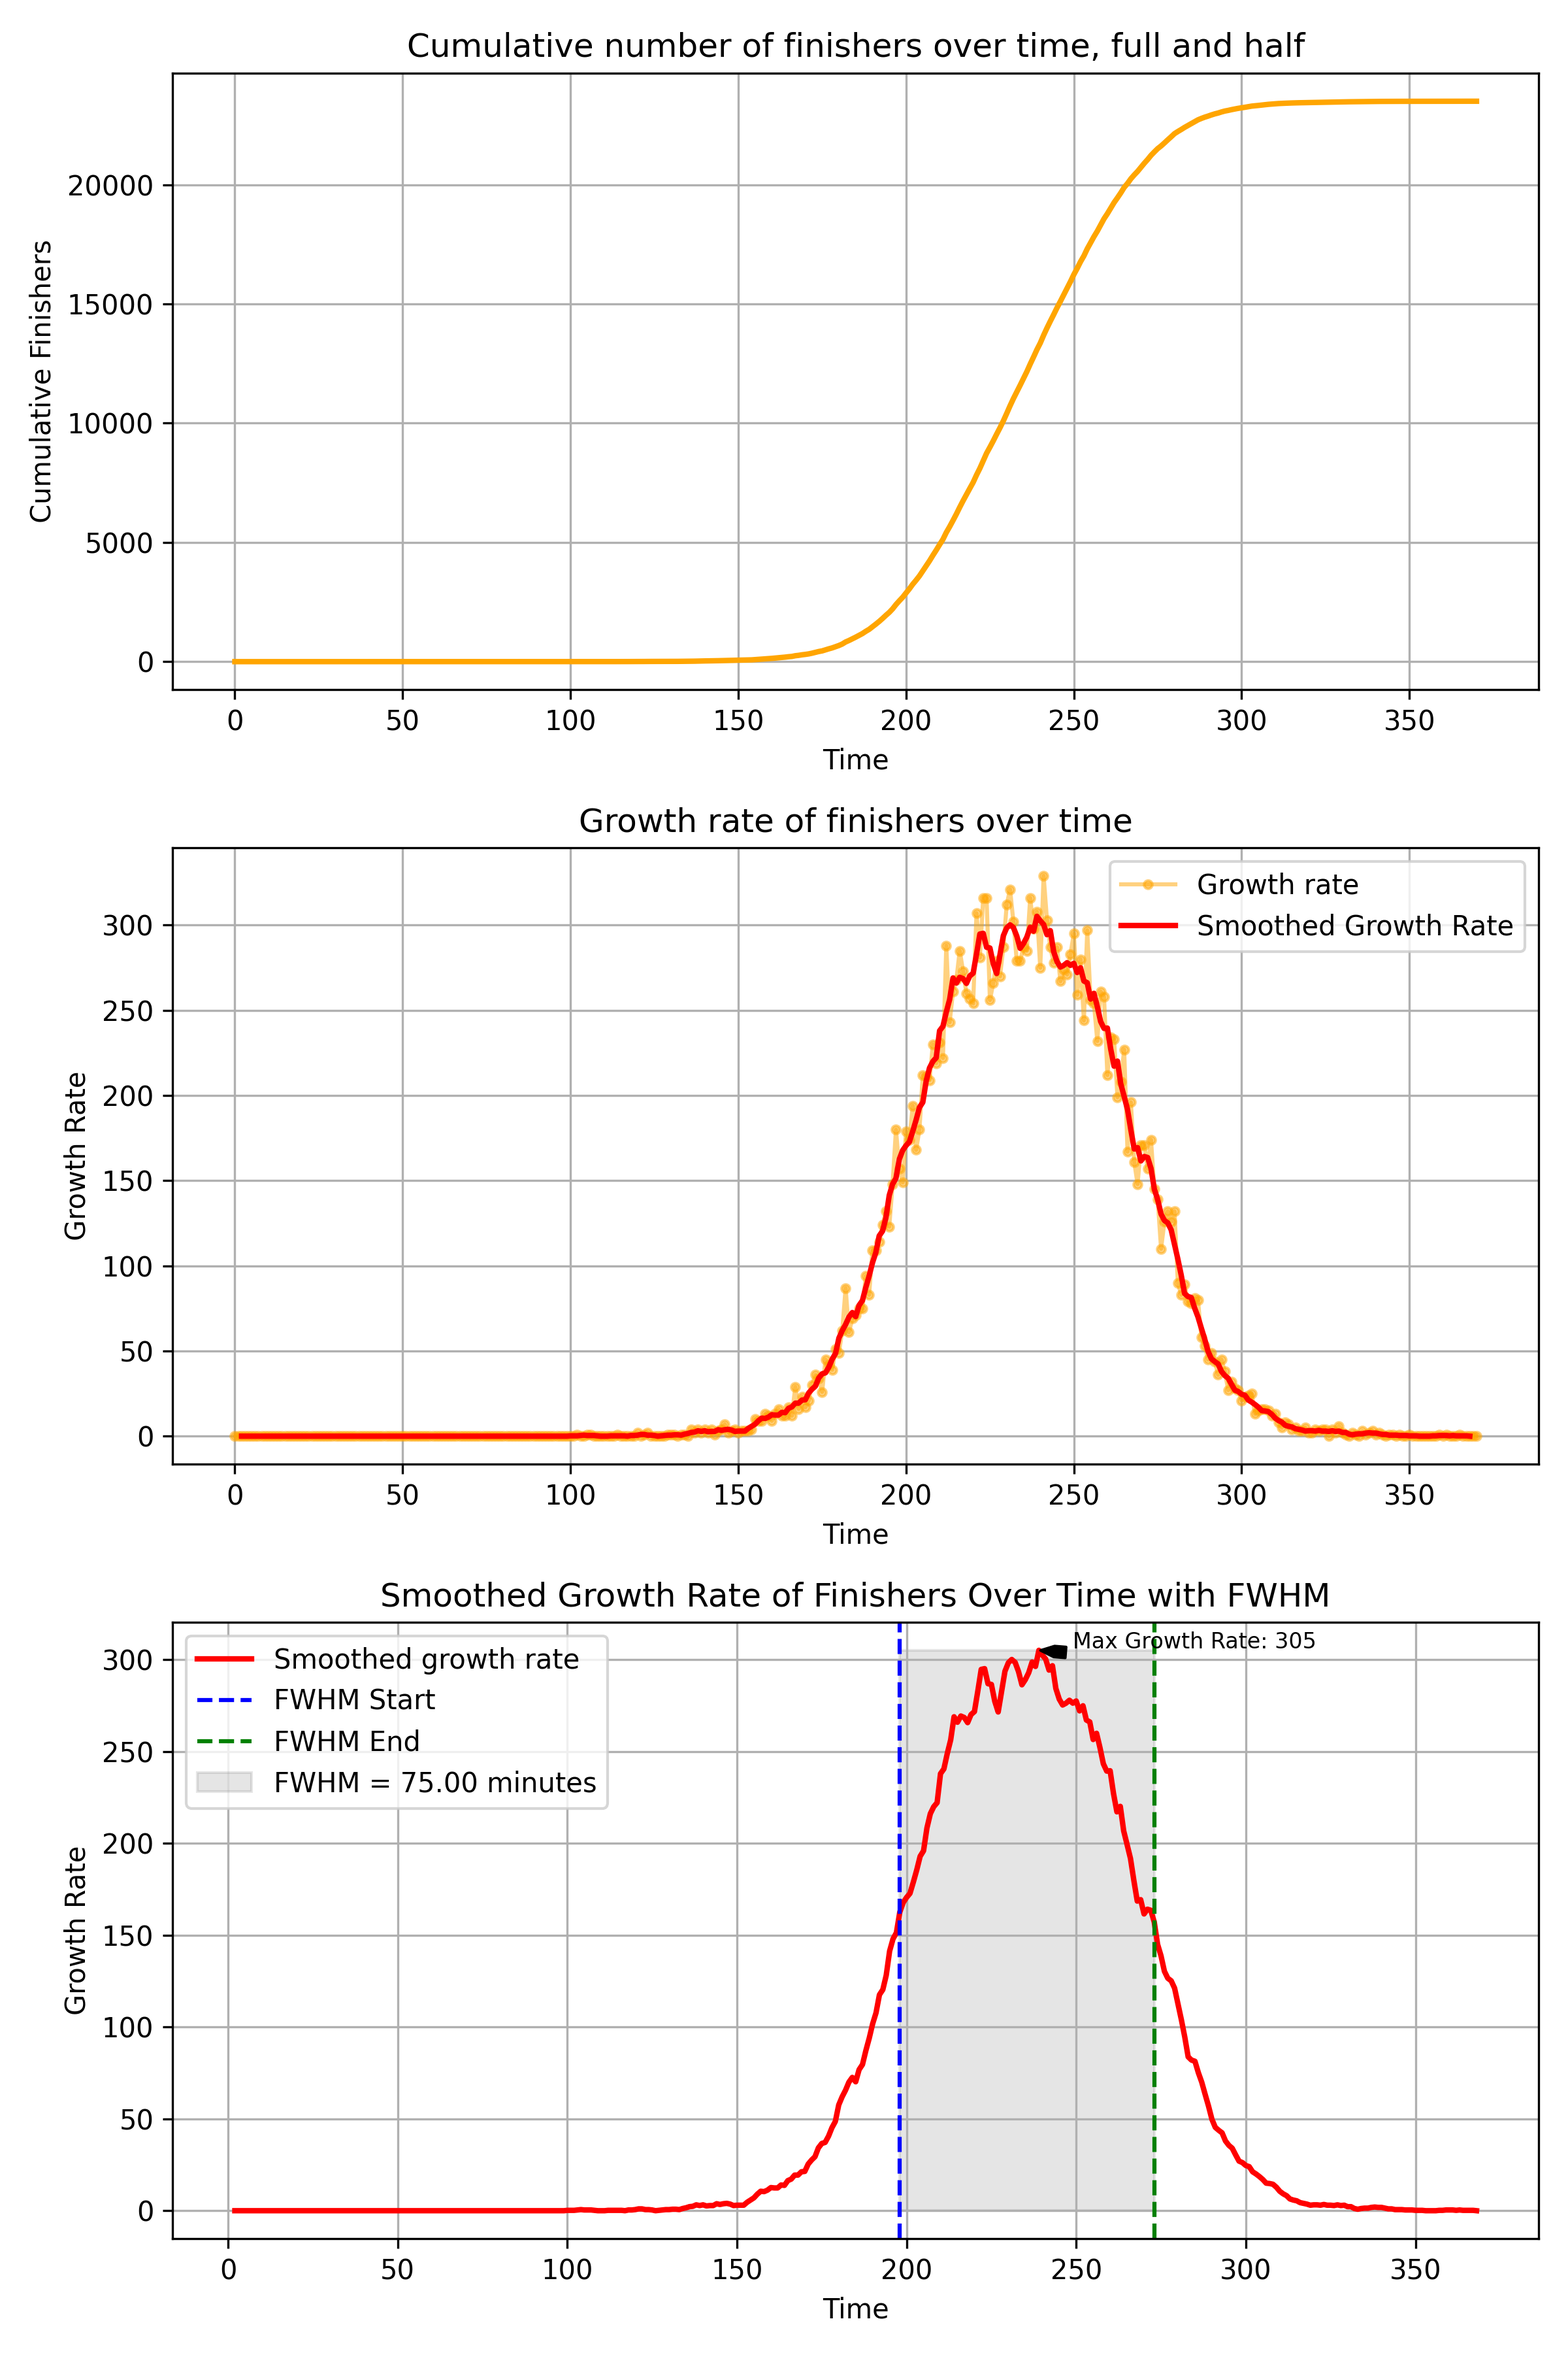
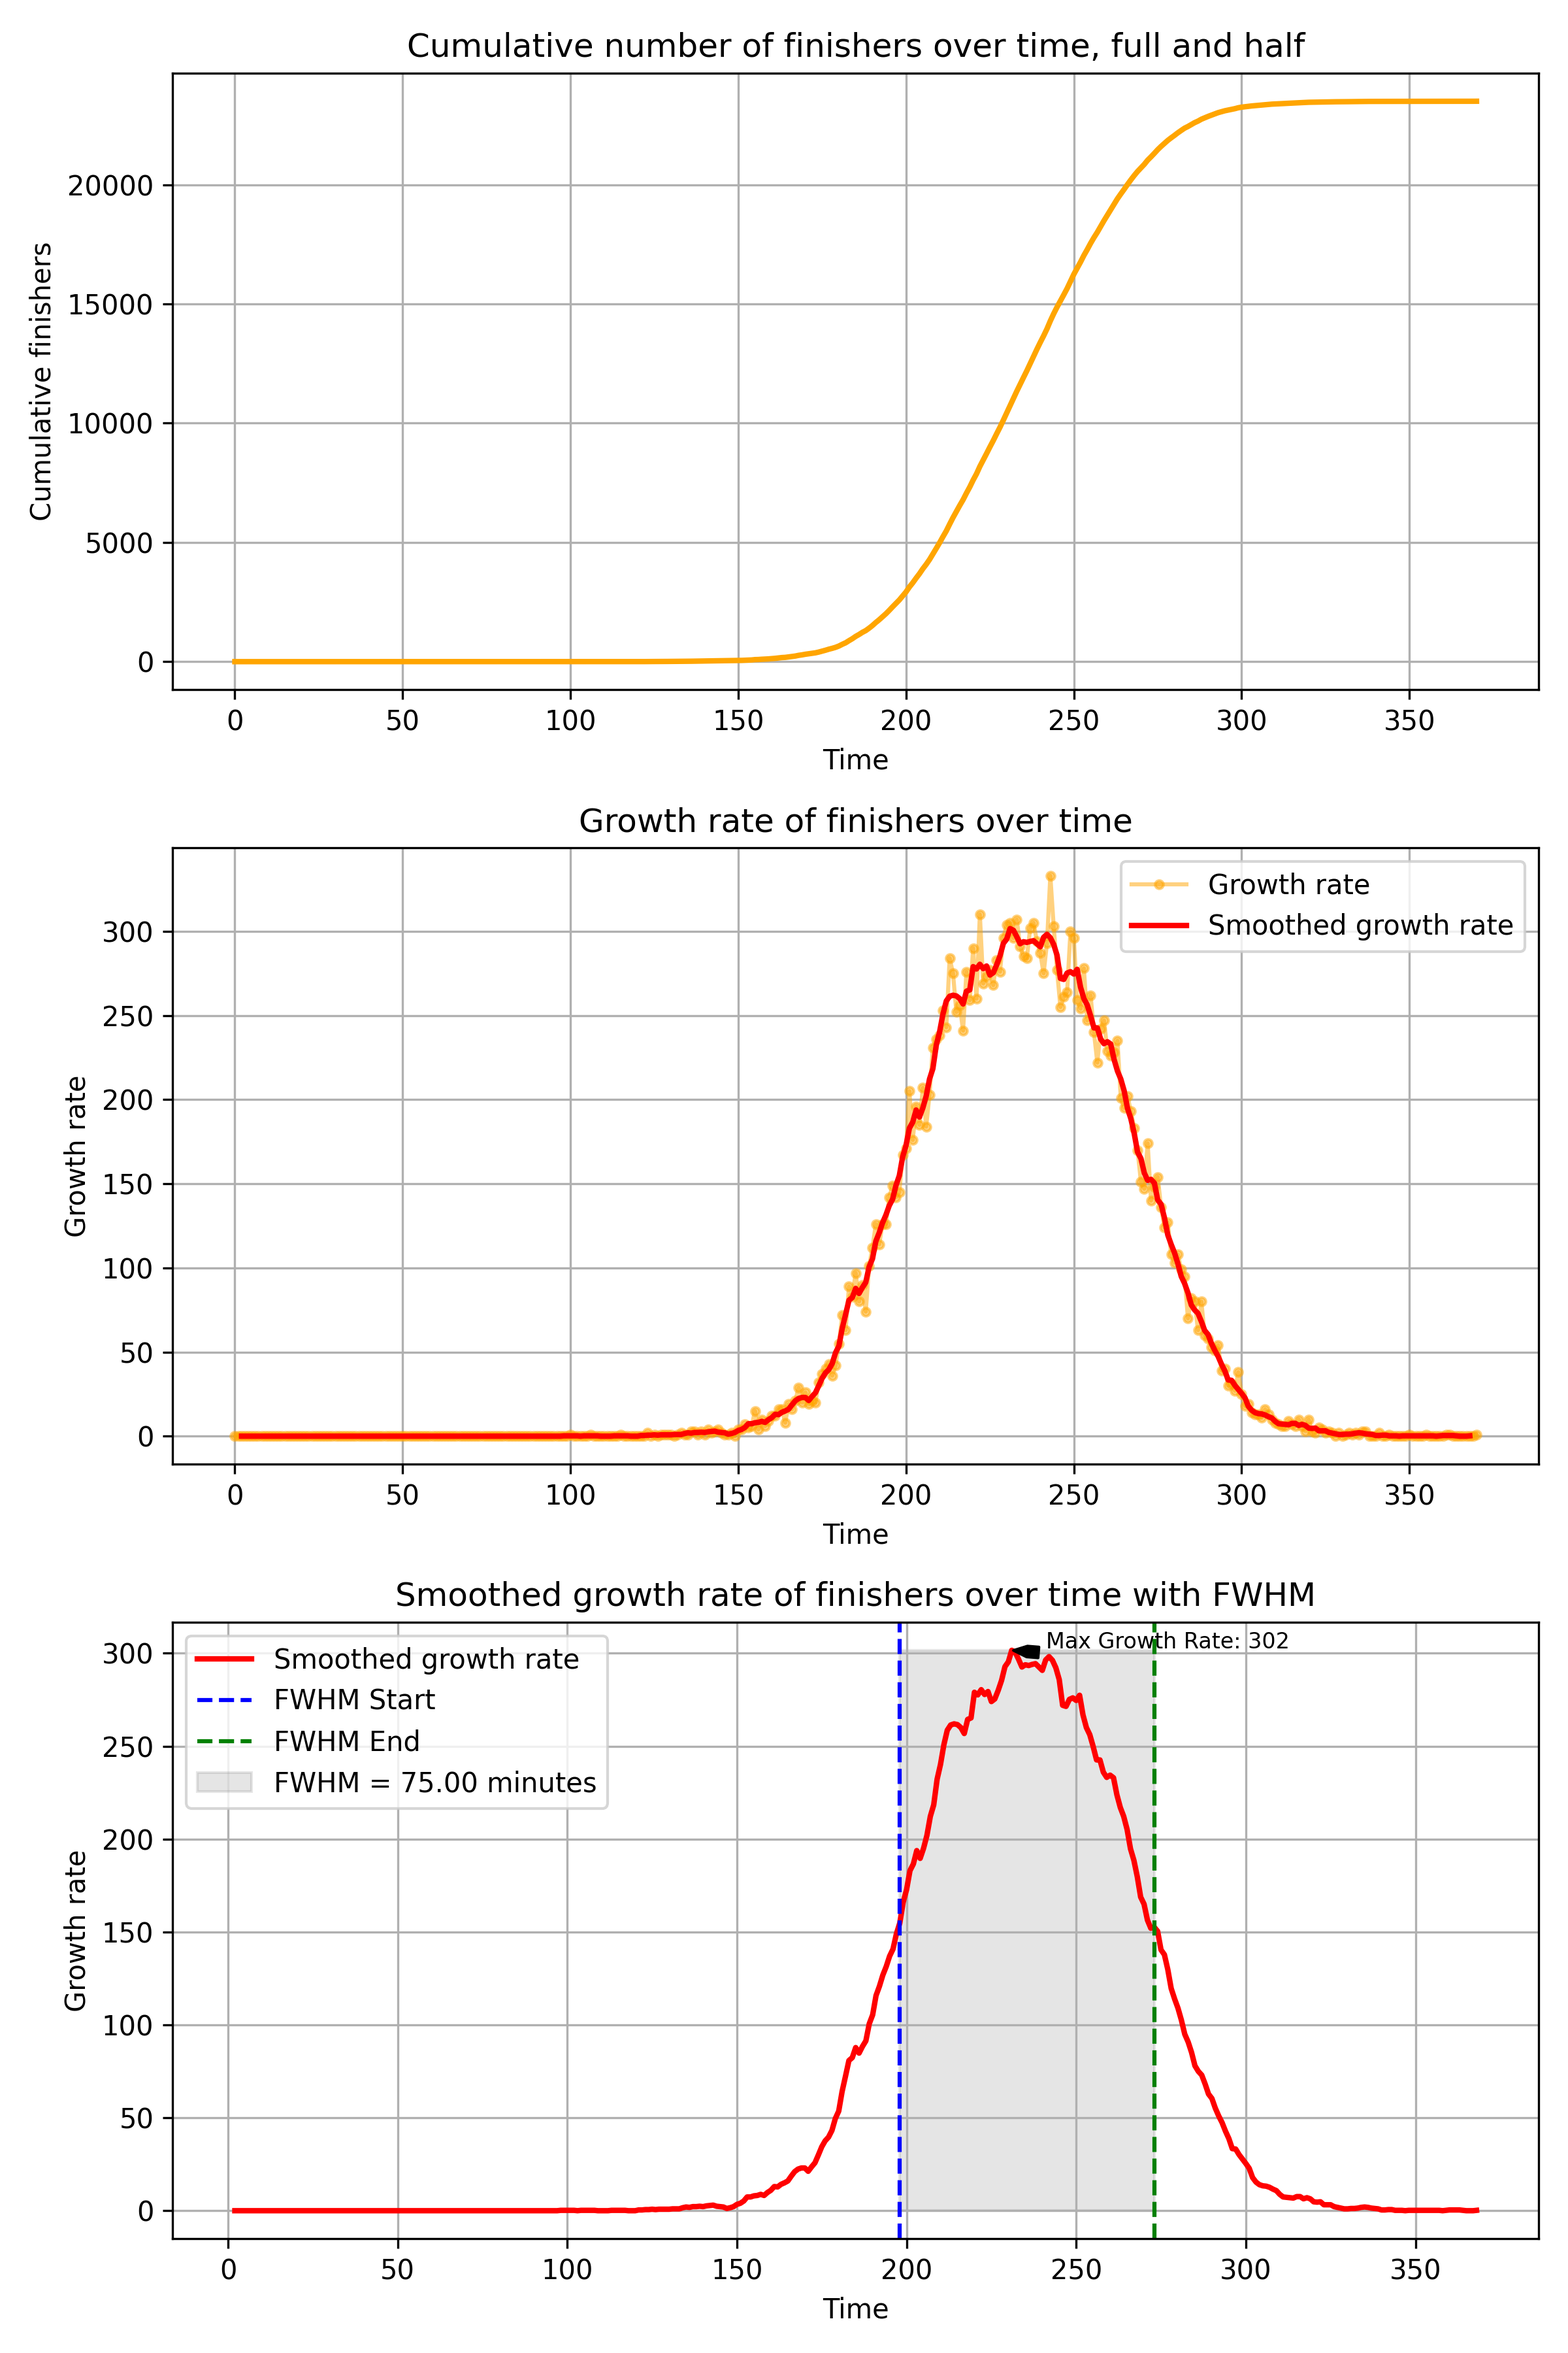
minor changes

diff --git a/source/finishers_over_time_analysis.py b/source/finishers_over_time_analysis.py
@@ -133,7 +133,7 @@ fig, (ax1, ax2, ax3) = plt.subplots(3, 1, figsize=(8, 12))
 ax1.plot(finishers_data['Time'], finishers_data['CumulativeFinishersCombined'], linestyle = '-', color = "orange", linewidth = 2)
 ax1.set_title('Cumulative number of finishers over time, full and half')
 ax1.set_xlabel('Time')
-ax1.set_ylabel('Cumulative Finishers')
+ax1.set_ylabel('Cumulative finishers')
 ax1.grid(True)
 
 # Calculate the growth rate of finishers
@@ -145,10 +145,10 @@ finishers_data['SmoothedGrowthRate'] = finishers_data['GrowthRate'].rolling(wind
 
 ## Plot the growth rate over time
 ax2.plot(finishers_data['Time'], finishers_data['GrowthRate'], marker = '.', color = "orange",  alpha=0.5, label = 'Growth rate')
-ax2.plot(finishers_data['Time'], finishers_data['SmoothedGrowthRate'], color = 'red', linewidth = 2, label = 'Smoothed Growth Rate')
+ax2.plot(finishers_data['Time'], finishers_data['SmoothedGrowthRate'], color = 'red', linewidth = 2, label = 'Smoothed growth rate')
 ax2.set_title('Growth rate of finishers over time')
 ax2.set_xlabel('Time')
-ax2.set_ylabel('Growth Rate')
+ax2.set_ylabel('Growth rate')
 ax2.grid(True)
 ax2.legend()
 
@@ -193,9 +193,9 @@ if fwhm_smoothed is not None:
     ax3.axvline(x=fwhm_end_smoothed, color='green', linestyle='--', label='FWHM End')
     ax3.fill_betweenx([0, max_smoothed_growth_rate], fwhm_start_smoothed, fwhm_end_smoothed, color='gray', alpha = 0.2, label = f'FWHM = {fwhm_smoothed:.2f} minutes')
 
-ax3.set_title('Smoothed Growth Rate of Finishers Over Time with FWHM')
+ax3.set_title('Smoothed growth rate of finishers over time with FWHM')
 ax3.set_xlabel('Time')
-ax3.set_ylabel('Growth Rate')
+ax3.set_ylabel('Growth rate')
 ax3.grid(True)
 ax3.legend()
 
